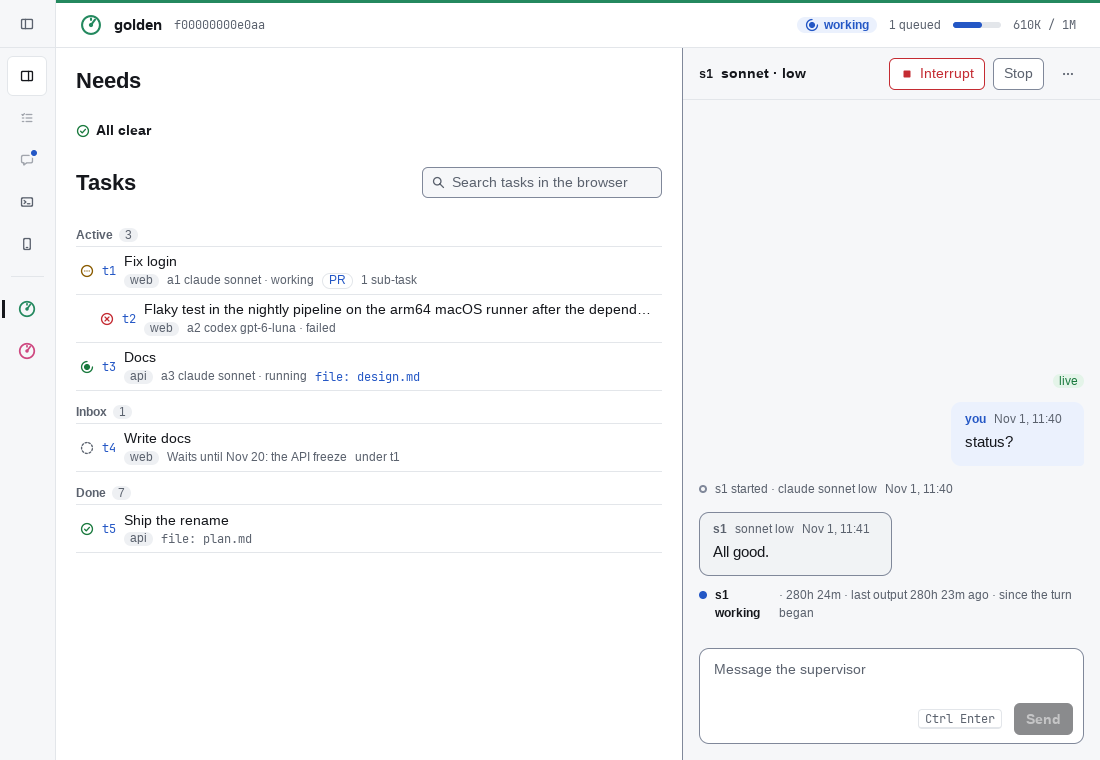
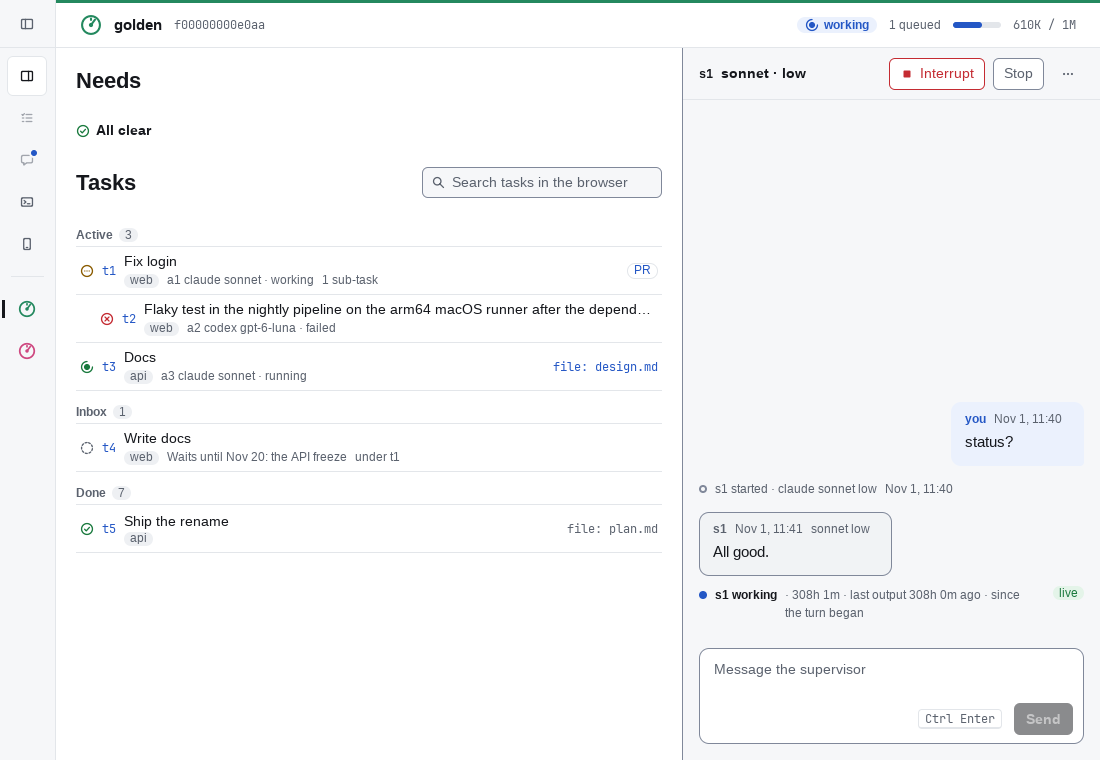
fix(desktop): the task row's tail slot and empty groups

diff --git a/internal/desktop/tasks_test.go b/internal/desktop/tasks_test.go
@@ -4,8 +4,10 @@ import (
 	"fmt"
 	"strings"
 	"testing"
+	"time"
 
 	"github.com/atqamz/hand/internal/desktop"
+	"github.com/atqamz/hand/internal/desktop/kit"
 )
 
 func taskFixture(t *testing.T) *fixture {
@@ -87,7 +89,7 @@ func TestTaskRowsAreFortyEightHigh(t *testing.T) {
 
 func TestTheTaskIconFollowsItsState(t *testing.T) {
 	tt := sized(t, newApp(t, taskFixture(t)), windowWidth, windowHeight, false)
-	for _, want := range []string{"state waiting", "state failure", "state running", "state idle", "state passing"} {
+	for _, want := range []string{"state waiting", "state failing", "state running", "state idle", "state passing"} {
 		if _, ok := tt.Find(want); !ok {
 			t.Errorf("no icon for %q in %q", want, tt.Texts())
 		}
@@ -170,7 +172,7 @@ func TestASubTaskIsIndentedUnderItsParent(t *testing.T) {
 	if !ok {
 		t.Fatal("no icon on the parent")
 	}
-	child, ok := tt.Find("state failure")
+	child, ok := tt.Find("state failing")
 	if !ok {
 		t.Fatal("no icon on the sub-task")
 	}
@@ -242,4 +244,216 @@ func TestADeepSubTaskSaysItsDepth(t *testing.T) {
 	if got := deep.X - root.X; got != 60 {
 		t.Errorf("the fourth-level sub-task is indented %.0f, want 60 (three steps)", got)
 	}
+}
+
+func TestTheTaskRowOpensItsTask(t *testing.T) {
+	app := newApp(t, taskFixture(t))
+	tt := sized(t, app, windowWidth, windowHeight, false)
+	click(t, tt, "task t1")
+	tt.Frame()
+	if app.Screen != desktop.TaskScreen || app.Ref != "t1" {
+		t.Fatalf("clicking the row went to screen %v ref %q", app.Screen, app.Ref)
+	}
+}
+
+func TestAMissingSlotLeavesNoGap(t *testing.T) {
+	f := taskFixture(t)
+	ts := f.tasks[fleetID]
+	wide := strings.Repeat("a wide title that has to be cut ", 8)
+	ts.Groups = []desktop.TaskGroup{{Name: "Active", Count: 2, Tasks: []desktop.TaskRow{
+		{Ref: "t20", Title: wide + "with a badge", Project: "web", Status: "active", State: "idle",
+			Delivered: &desktop.Deliverable{Ref: "https://github.com/example/hand/pull/7", Kind: "PR"}},
+		{Ref: "t21", Title: wide + "with no badge", Project: "web", Status: "active", State: "idle"},
+	}}}
+	f.tasks[fleetID] = ts
+	tt := sized(t, newApp(t, f), windowWidth, windowHeight, false)
+	with, ok := tt.Find(wide + "with a badge")
+	if !ok {
+		t.Fatal("no truncated title with a badge")
+	}
+	without, ok := tt.Find(wide + "with no badge")
+	if !ok {
+		t.Fatal("no truncated title with no badge")
+	}
+	if without.W <= with.W {
+		t.Errorf("the title with no tail is %.0f wide, the one with a tail %.0f: the tail's slot is still there", without.W, with.W)
+	}
+
+	ts.Groups[0].Tasks = append(ts.Groups[0].Tasks[:0],
+		desktop.TaskRow{Ref: "t22", Title: "A bare row", Project: "web", Status: "active", State: "idle"},
+		desktop.TaskRow{Ref: "t23", Title: "A row with a meta line", Project: "web", Status: "inbox", State: "waiting",
+			Waits: &desktop.Waits{Ref: "w1", Due: "2026-11-20T00:00:00Z", Note: "the API freeze"}},
+	)
+	ts.Groups[0].Count = 2
+	f.tasks[fleetID] = ts
+	tt = sized(t, newApp(t, f), windowWidth, windowHeight, false)
+	bare, ok := tt.Find("task t22")
+	if !ok {
+		t.Fatal("no bare row")
+	}
+	bareTitle, ok := tt.Find("A bare row")
+	if !ok {
+		t.Fatal("no bare title")
+	}
+	meta, ok := tt.Find("task t23")
+	if !ok {
+		t.Fatal("no row with a meta line")
+	}
+	metaTitle, ok := tt.Find("A row with a meta line")
+	if !ok {
+		t.Fatal("no title over a meta line")
+	}
+	if got, want := bareTitle.Y-bare.Y, metaTitle.Y-meta.Y; got <= want {
+		t.Errorf("the bare title sits %.0f below its row, the title over a meta line %.0f: an empty meta line is reserved", got, want)
+	}
+}
+
+func TestTheWaitsLineIsCutWithAnEllipsis(t *testing.T) {
+	f := taskFixture(t)
+	ts := f.tasks[fleetID]
+	note := strings.Repeat("the vendor will answer ", 12)
+	ts.Groups = []desktop.TaskGroup{{Name: "Inbox", Count: 1, Tasks: []desktop.TaskRow{{
+		Ref: "t30", Title: "Wait on the vendor", Project: "web", Status: "inbox", State: "waiting",
+		Waits: &desktop.Waits{Ref: "w1", Due: "2026-11-20T00:00:00Z", Note: note, Status: "waiting", Waits: true},
+	}}}}
+	f.tasks[fleetID] = ts
+	tt := sized(t, newApp(t, f), windowWidth, windowHeight, false)
+	row, ok := tt.Find("task t30")
+	if !ok {
+		t.Fatal("no waiting row")
+	}
+	line, ok := tt.Find("Waits until Nov 20: " + note)
+	if !ok {
+		t.Fatalf("no waits line in %q", tt.Texts())
+	}
+	if line.X+line.W > row.X+row.W {
+		t.Errorf("the waits line ends at %.0f, past its row at %.0f", line.X+line.W, row.X+row.W)
+	}
+	if line.W >= row.W {
+		t.Errorf("the waits line is %.0f wide in a %.0f row: nothing was cut", line.W, row.W)
+	}
+}
+
+func TestTheDeliverableSitsAtTheTailOfItsRow(t *testing.T) {
+	tt := sized(t, newApp(t, taskFixture(t)), windowWidth, windowHeight, false)
+	row, ok := tt.Find("task t1")
+	if !ok {
+		t.Fatal("no task t1")
+	}
+	badge, ok := tt.Find("deliverable PR")
+	if !ok {
+		t.Fatal("no deliverable badge")
+	}
+	if badge.X < row.X+row.W/2 {
+		t.Errorf("the deliverable is at %.0f in a row starting at %.0f and %.0f wide, not at the tail", badge.X, row.X, row.W)
+	}
+	if slack := row.X + row.W - badge.X - badge.W; slack > kit.Space10 {
+		t.Errorf("the deliverable leaves %.0f px before the row's end, want its 4 px padding", slack)
+	}
+}
+
+func TestAnEmptyTaskGroupShowsNoHead(t *testing.T) {
+	f := taskFixture(t)
+	ts := f.tasks[fleetID]
+	ts.Groups = append([]desktop.TaskGroup{{Name: "Empty", Count: 0}}, ts.Groups...)
+	f.tasks[fleetID] = ts
+	tt := sized(t, newApp(t, f), windowWidth, windowHeight, false)
+	mustNotText(t, tt, "group Empty")
+}
+
+func TestALiveStateChangeRepaintsTheRow(t *testing.T) {
+	f := taskFixture(t)
+	ts := f.tasks[fleetID]
+	ts.Groups = ts.Groups[:1]
+	ts.Groups[0].Tasks = ts.Groups[0].Tasks[:1]
+	ts.Groups[0].Count = 1
+	f.tasks[fleetID] = ts
+	app := newApp(t, f)
+	app.Clock = newFakeClock()
+	posted := make(chan func(), 8)
+	app.Post = func(fn func()) { posted <- fn }
+	app.Show(desktop.BoardScreen)
+	settle(t, posted)
+	tt := sized(t, app, windowWidth, windowHeight, false)
+	mustText(t, tt, "state waiting")
+
+	f.mu.Lock()
+	ts = f.tasks[fleetID]
+	ts.Groups[0].Tasks[0].State = "passing"
+	ts.Groups[0].Tasks[0].Attempt = nil
+	f.tasks[fleetID] = ts
+	f.mu.Unlock()
+
+	app.StartRefresh()
+	app.Clock.(*fakeClock).Advance(desktop.FocusedRefresh)
+	pumpUntil(t, posted, func() bool { return app.Tasks.Groups[0].Tasks[0].State == "passing" })
+	tt.Frame()
+	mustText(t, tt, "state passing")
+	mustNotText(t, tt, "state waiting")
+	app.Close()
+}
+
+func TestTheProjectBadgeNamesTheWholeProjectOnHover(t *testing.T) {
+	f := taskFixture(t)
+	ts := f.tasks[fleetID]
+	long := strings.Repeat("project-", 10)
+	ts.Groups[0].Tasks[0].Project = long
+	f.tasks[fleetID] = ts
+	tt := sized(t, newApp(t, f), windowWidth, windowHeight, false)
+	badge, ok := tt.Find("project " + long)
+	if !ok {
+		t.Fatalf("no project badge in %q", tt.Texts())
+	}
+	tt.Move(badge.X+badge.W/2, badge.Y+badge.H/2)
+	tt.Advance(time.Second)
+	tt.Frame()
+	if _, ok := tt.Find(long); !ok {
+		t.Errorf("resting on the badge shows no tooltip with the whole name, in %q", tt.Texts())
+	}
+}
+
+func TestScenesTasksProjectsAndLongRows(t *testing.T) {
+	for _, dark := range []bool{false, true} {
+		mode := map[bool]string{false: "light", true: "dark"}[dark]
+		t.Run("one-project-"+mode, func(t *testing.T) {
+			f := goldenFixture(t)
+			st := f.status[fleetID]
+			st.Needs = desktop.Needs{}
+			f.status[fleetID] = st
+			tt := sized(t, newApp(t, f), windowWidth, windowHeight, dark)
+			mustText(t, tt, "Active", "Fix login")
+			mustNotText(t, tt, "project hand")
+			shotSized(t, tt, "34-tasks-one-project-1100x760-"+mode, windowWidth, windowHeight)
+		})
+		t.Run("long-"+mode, func(t *testing.T) {
+			tt := sized(t, newApp(t, taskLongFixture(t)), windowWidth, windowHeight, dark)
+			mustText(t, tt, "A wide task title", "Waits until Nov 20:")
+			shotSized(t, tt, "35-tasks-long-1100x760-"+mode, windowWidth, windowHeight)
+		})
+	}
+}
+
+func taskLongFixture(t *testing.T) *fixture {
+	t.Helper()
+	f := taskFixture(t)
+	ts := f.tasks[fleetID]
+	ts.Groups = []desktop.TaskGroup{{Name: "Active", Count: 2, Tasks: []desktop.TaskRow{
+		{
+			Ref:     "t1",
+			Title:   "A wide task title that runs past the width of the work pane and has to be cut with an ellipsis at its end",
+			Project: "platform-migration-and-the-very-long-project-name",
+			Status:  "active", State: "waiting",
+			Attempt:   &desktop.Attempt{Ref: "a1", Task: "t1", Harness: "claude", Model: "sonnet", Status: "running"},
+			Delivered: &desktop.Deliverable{Ref: "https://github.com/example/hand/pull/42", Kind: "PR"},
+		},
+		{
+			Ref: "t2", Title: "A sub-task with a waiting vendor",
+			Project: "platform-migration-and-the-very-long-project-name",
+			Status:  "active", State: "failing", Parent: "t1",
+			Waits: &desktop.Waits{Ref: "w1", Due: "2026-11-20T00:00:00Z",
+				Note: "the vendor answers the questionnaire about the migration", Status: "waiting", Waits: true},
+		},
+	}}}
+	f.tasks[fleetID] = ts
+	return f
 }

diff --git a/internal/desktop/tasks.go b/internal/desktop/tasks.go
@@ -23,6 +23,9 @@ func (a *App) tasksScreen(c *ui.Context, p palette) {
 	}
 	ui.Column(c).Gap(0).Children(func() {
 		for _, group := range a.Tasks.Groups {
+			if len(group.Tasks) == 0 {
+				continue
+			}
 			a.taskGroup(c, p, group)
 		}
 		if n := a.Tasks.Hidden; n > 0 {
@@ -60,15 +63,19 @@ func (a *App) taskRow(c *ui.Context, p palette, r TaskRow, depth int, under stri
 		Padding(kit.Space4, kit.Space4, kit.Space4, kit.Space4+indent).AlignItems(ui.Center).
 		Cursor(ui.CursorPointer).BorderWidth(0, 0, 1, 0).BorderColor(p.line).Label("task " + r.Ref)
 	el.Children(func() {
-		ui.Icon(c, stateIcon(r.State)).TextColor(stateColor(r.State, p)).Label("state " + stateIconName(r.State))
+		ui.Icon(c, stateIcon(r.State)).TextColor(stateColor(r.State, p)).
+			Label("state " + stateWord(r.State))
 		ui.Text(c, r.Ref).Font("monospace").FontSize(kit.Meta.Size).TextColor(p.accent).SingleLine()
 		ui.Column(c).Grow(1).MinWidth(0).Children(func() {
 			ui.Text(c, r.Title).FontSize(kit.Body.Size).FixedLineHeight(20).SingleLine()
 			if (a.Status.Projects > 1 && r.Project != "") || r.Attempt != nil || r.Waits != nil ||
-				r.Delivered != nil || under != "" || r.Children > 0 || depth > 3 {
+				under != "" || r.Children > 0 || depth > 3 {
 				a.taskSubline(c, p, r, under, depth)
 			}
 		})
+		if r.Delivered != nil {
+			a.taskDeliverable(c, p, *r.Delivered)
+		}
 	})
 	if el.Clicked() {
 		a.OpenRef(r.Ref)
@@ -78,7 +85,8 @@ func (a *App) taskRow(c *ui.Context, p palette, r TaskRow, depth int, under stri
 func (a *App) taskSubline(c *ui.Context, p palette, r TaskRow, under string, depth int) {
 	ui.Row(c).Gap(kit.Space8).AlignItems(ui.Center).MinWidth(0).Children(func() {
 		if a.Status.Projects > 1 && r.Project != "" {
-			ui.Badge(c, taskProject(r.Project)).Background(p.neutralBG).TextColor(p.neutral).Label("project " + r.Project)
+			ui.Badge(c, taskProject(r.Project)).Background(p.neutralBG).TextColor(p.neutral).
+				Label("project " + r.Project).Tooltip(r.Project).Shrink(0)
 		}
 		if r.Attempt != nil {
 			ui.Text(c, taskAttemptLine(r)).FontSize(kit.Meta.Size).TextColor(p.neutral).
@@ -87,9 +95,6 @@ func (a *App) taskSubline(c *ui.Context, p palette, r TaskRow, under string, dep
 		if r.Waits != nil {
 			ui.Text(c, taskWaitsLine(*r.Waits)).FontSize(kit.Meta.Size).TextColor(p.neutral).
 				FixedLineHeight(18).SingleLine().MinWidth(0)
-		}
-		if r.Delivered != nil {
-			a.taskDeliverable(c, p, *r.Delivered)
 		}
 		if depth > 3 {
 			ui.Textf(c, "depth %d", depth).FontSize(kit.Meta.Size).TextColor(p.neutral).
@@ -113,11 +118,11 @@ func (a *App) taskDeliverable(c *ui.Context, p palette, d Deliverable) {
 			color = p.accent
 		}
 		ui.Text(c, "file: "+taskFileBase(d.Ref)).Font("monospace").FontSize(kit.Meta.Size).
-			TextColor(color).SingleLine()
+			TextColor(color).SingleLine().MaxWidth(200).Shrink(0)
 		return
 	}
 	ui.Badge(c, d.Kind).Background(ui.Transparent).TextColor(p.accent).Border(1, p.line).
-		Label("deliverable " + d.Kind)
+		Label("deliverable " + d.Kind).Shrink(0)
 }
 
 func taskAttemptLine(r TaskRow) string {

diff --git a/internal/desktop/tasks_internal_test.go b/internal/desktop/tasks_internal_test.go
@@ -1,0 +1,51 @@
+package desktop
+
+import (
+	"testing"
+
+	"github.com/egoist/mygo/ui"
+)
+
+func TestATaskStateTakesTheBoardsToneAndIcon(t *testing.T) {
+	cases := []struct {
+		state, icon string
+	}{
+		{"waiting", "waiting"},
+		{"failing", "failure"},
+		{"running", "running"},
+		{"idle", "idle"},
+		{"passing", "passing"},
+		{"", "idle"},
+		{"unknown", "idle"},
+	}
+	for _, dark := range []bool{false, true} {
+		p := paletteFor(dark)
+		want := map[string]struct {
+			icon  string
+			color ui.Color
+		}{
+			"waiting": {"waiting", p.wait},
+			"failing": {"failure", p.fail},
+			"running": {"running", p.pass},
+			"idle":    {"idle", p.neutral},
+			"passing": {"passing", p.pass},
+			"":        {"idle", p.neutral},
+			"unknown": {"idle", p.neutral},
+		}
+		for _, tc := range cases {
+			if got := stateIconName(tc.state); got != want[tc.state].icon {
+				t.Errorf("dark=%v: state %q draws the %q icon, want %q", dark, tc.state, got, want[tc.state].icon)
+			}
+			if got := stateColor(tc.state, p); got != want[tc.state].color {
+				t.Errorf("dark=%v: state %q is tinted %v, want the tone's %v", dark, tc.state, got, want[tc.state].color)
+			}
+			word := stateWord(tc.state)
+			if tc.state != "" && word != tc.state {
+				t.Errorf("dark=%v: state %q says %q, want the Board's word", dark, tc.state, word)
+			}
+			if tc.state == "" && word != "idle" {
+				t.Errorf("dark=%v: no state says %q, want idle", dark, word)
+			}
+		}
+	}
+}
